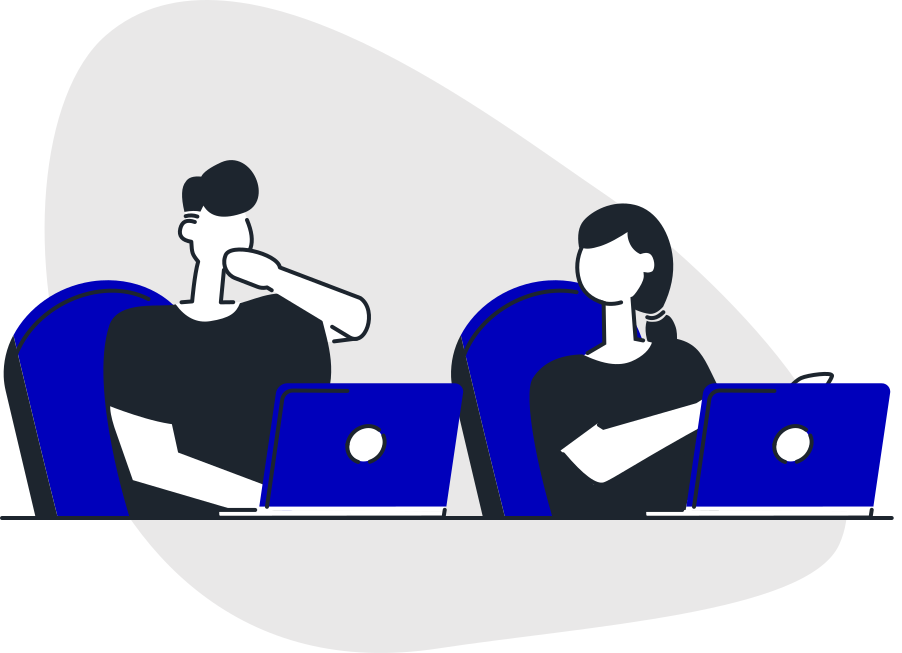
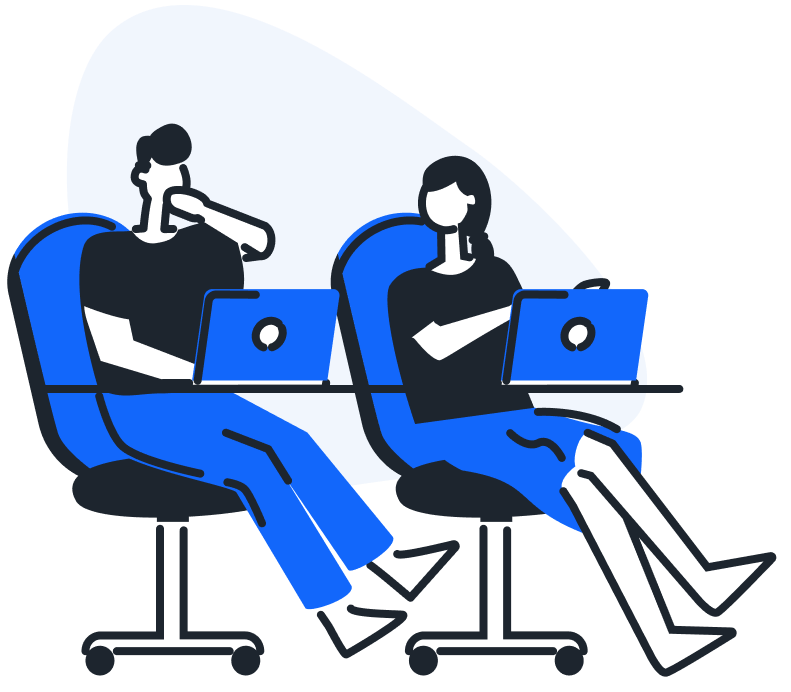
changing picture colours and making them smaller

diff --git a/about.html b/about.html
@@ -25,15 +25,15 @@
             <p>Today, there is a lack of youth engagement in policymaking. On one hand, we (yes, young people talking here) feel decision-makers do not account for our needs and priorities and the decision-making process lacks transparency. On the other hand, decision-makers need more concrete and useful proposals, which can be discussed and considered.</p>
             <p>Our lack of understanding of the policymaking process keeps us from participating in a more effective way, and it isn’t easy to find such information on a national level. We decided to build OpenPolicy Europe to fix this.</p>
           </div>
-          <div class="container-half">
-            <img src="./images/Day Dream.png" width=100%>
+          <div class="container-half flex-center">
+            <img src="./images/day_dream.png">
           </div>
         </div>
       </section>
       <section class="pd-bottom">
         <div class="container flex-between">
-          <div class="container-half">
-            <img src="./images/Officemate.png" width=100%>
+          <div class="container-half flex-center">
+            <img src="./images/officemate.png">
           </div>
           <div class="container-half">
             <h2><mark class="mark-yllw">What is OpenPolicy Europe?</mark></h2>

diff --git a/style/style.css b/style/style.css
@@ -108,6 +108,10 @@ body {
   width: 48%;
 }
 
+.container-half img {
+  max-height: 350px;
+}
+
 .flex-center {
   display: flex;
   justify-content: center;
@@ -147,7 +151,7 @@ body {
 }
 
 .pd-vert {
-  padding-top: 50px;
+  padding-top: 40px;
   padding-bottom: 50px;
 }
 
